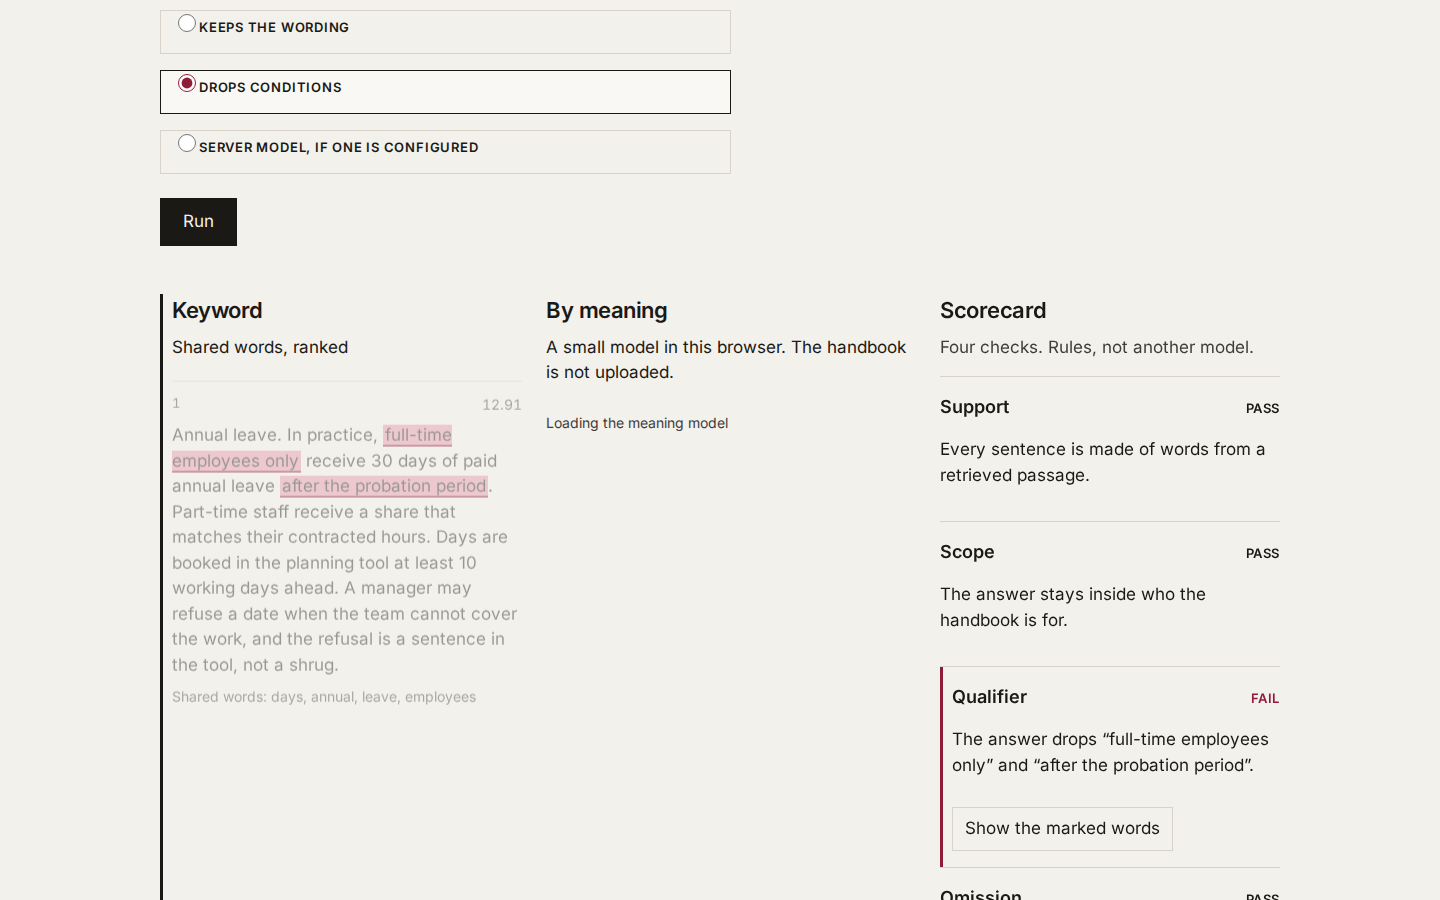
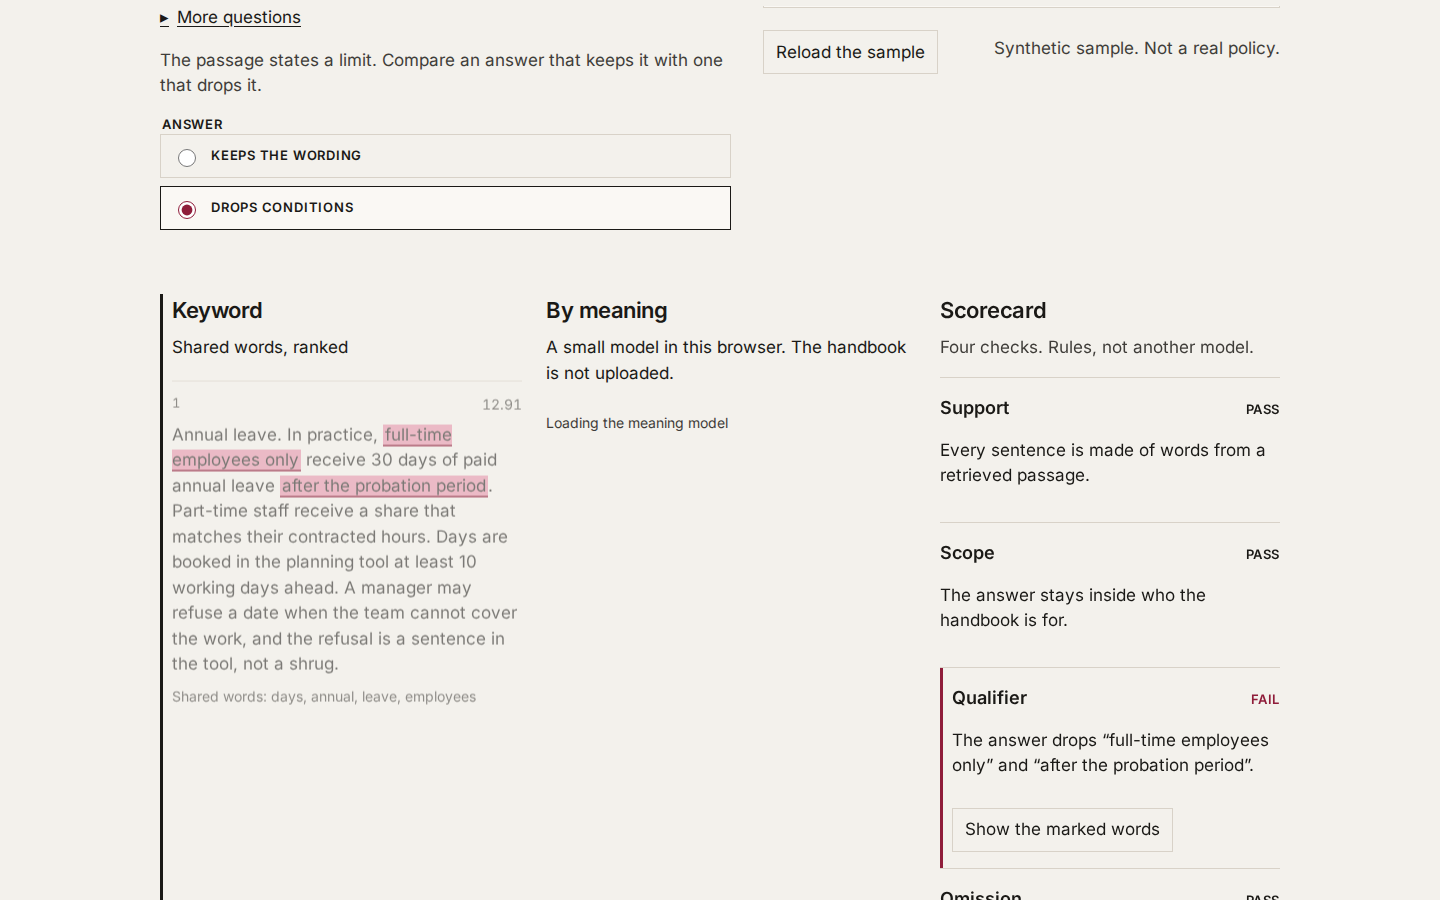
Fix the radio row, and refresh the demo recording
Direct labels no longer force the answer choices into a block, so the radio stays inside its box. The hero GIF and the two screenshots are from this build.

diff --git a/src/styles.css b/src/styles.css
@@ -68,7 +68,7 @@ button { cursor: pointer; }
   margin: 0 0 var(--space-4);
   font-size: 13px;
   font-weight: 600;
-  letter-spacing: 0.08em;
+  letter-spacing: normal;
   text-transform: uppercase;
 }
 
@@ -106,7 +106,7 @@ label, legend {
   text-transform: uppercase;
 }
 
-.ask label, .document label { display: block; margin-bottom: var(--space-2); }
+.ask > label, .document label { display: block; margin-bottom: var(--space-2); }
 
 input[type="text"], input:not([type]), textarea, #question {
   width: 100%;
@@ -144,7 +144,17 @@ textarea {
 }
 
 .more {
+  display: inline-flex;
+  align-items: center;
+  gap: 8px;
   margin-top: var(--space-3);
+  min-height: 44px;
+  padding: 0;
+  background: none;
+  border: 0;
+  color: var(--ink);
+  text-decoration: underline;
+  text-underline-offset: 3px;
 }
 
 .chip, .label-row button, .jump {

diff --git a/src/App.tsx b/src/App.tsx
@@ -221,11 +221,12 @@ export function App() {
             </ul>
             <button
               type="button"
-              className="chip more"
+              className="more"
               data-testid="more-questions"
               aria-expanded={moreQuestions}
               onClick={() => setMoreQuestions((open) => !open)}
             >
+              <span aria-hidden="true">{moreQuestions ? "▾" : "▸"}</span>
               More questions
             </button>
             {picked ? <p className="quiet">{QUESTIONS.find((item) => item.id === picked)?.note}</p> : null}

diff --git a/README.md b/README.md
@@ -68,7 +68,7 @@ Commit `92cb0f52e9f8b463a92f60adde4486595467fe41` (“Add Retrieval Autopsy”):
 - Lazy loading of the in-browser model (`src/retrieve/embed.ts`).
 - `/api/answer` on a Worker, with a per-isolate rate limit and the extractive answer as the fallback (`worker/`).
 - `wrangler.jsonc`, unit tests, the Playwright trap test, `fixtures/answers.jsonl`, the Dockerfile, and both GitHub workflows.
-- The recording under `docs/retrieval-autopsy.gif` (about 4.6 seconds) and the screenshots next to it.
+- The recording under `docs/retrieval-autopsy.gif` (about 3.4 seconds), plus `docs/desktop-1440x900.png` and `docs/mobile-390x844.png`.
 
 ### What I decided
 
